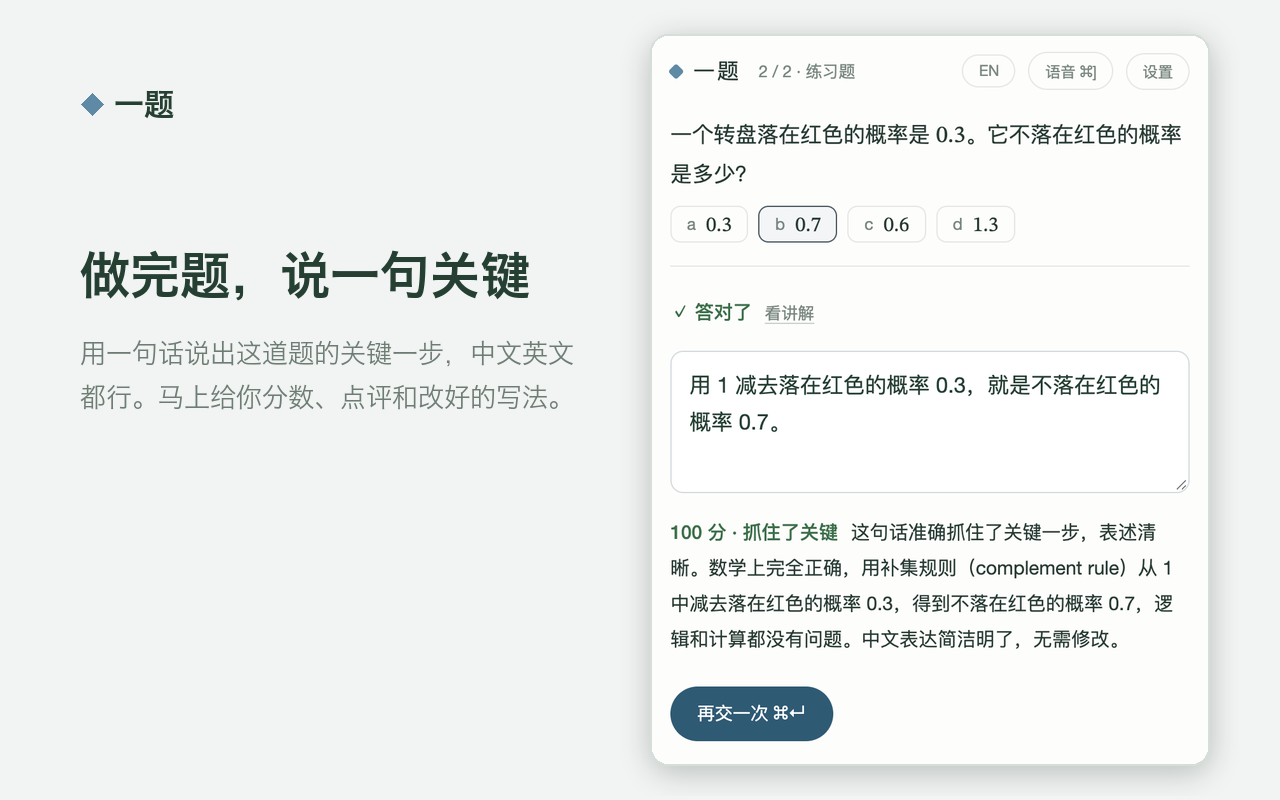
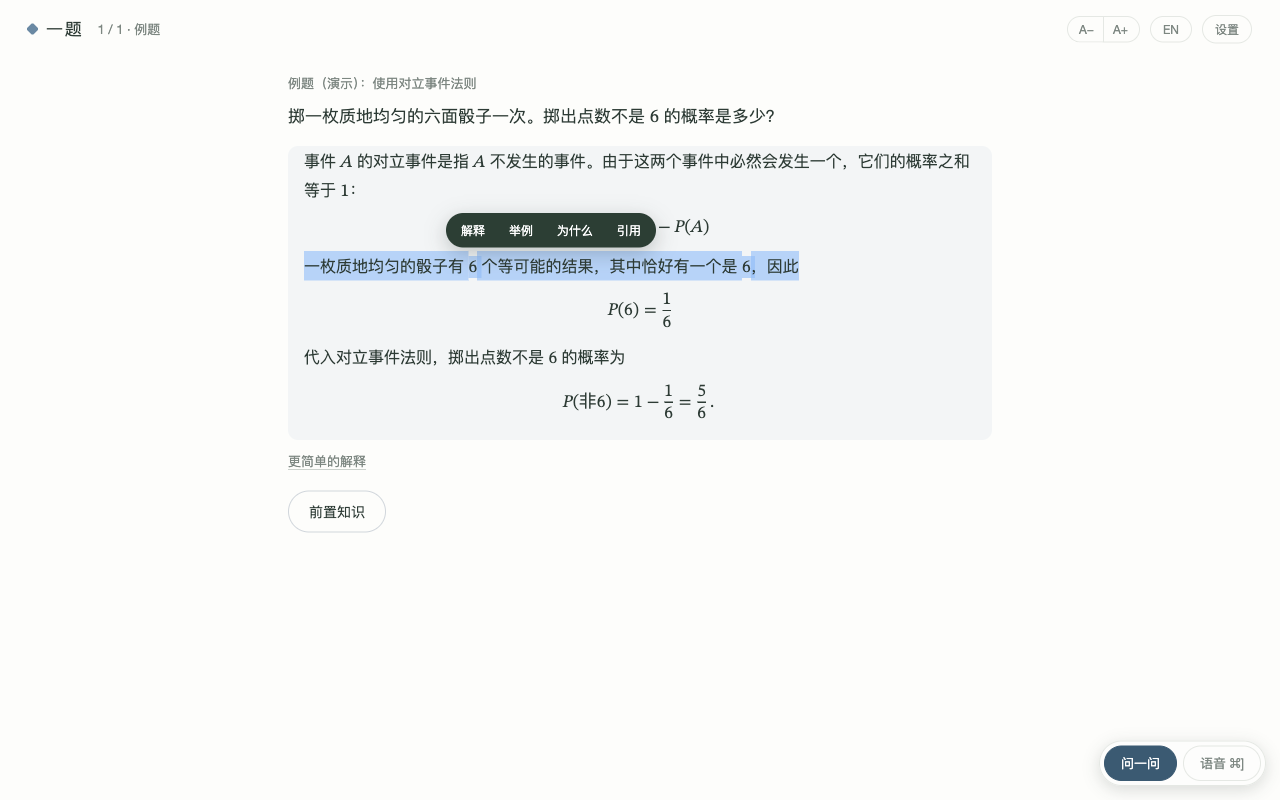
商店资料：0.5.1 提交时用的五张截图、两张宣传图和商店说明
截图用一题自带的示例题和真实模型回复拍的，不含 Math Academy 的内容和任何 key；宣传图去掉了已经删掉的功能；listing.md 是 0.5.1 提交时填的描述和审核说明（key 只有占位符）。

版本 0.6.0。

diff --git a/docs/store/listing.md b/docs/store/listing.md
@@ -4,7 +4,7 @@
 
 ## 1. 上传包（Packages）
 
-上传 `dist/yiti-extension-0.5.1.zip`（在仓库里运行 `node edge/build.mjs` 生成，也可以从 [Releases](https://github.com/John15263/yiti/releases) 下载）。2026-09-26 提交审核的是 0.3.1；审核期间不要上传新包（会重新排队），通过后再用新版本更新。
+上传 `dist/yiti-extension-0.5.1.zip`（在仓库里运行 `node edge/build.mjs` 生成，也可以从 [Releases](https://github.com/John15263/yiti/releases) 下载）。0.3.1 已通过审核（2026-10-02 确认）；0.5.1 是在它基础上的一次大更新（权限和主机权限和 0.3.1 完全一样，没有新增），用「更新」提交，不是新建加载项。
 
 包里的 `edge/_locales/<语言>/messages.json` 决定了商店里**不能再改**的两项，每种语言一份：
 
@@ -34,7 +34,7 @@
 ### Single Purpose Description
 
 ```
-Helps Chinese-speaking students study on Math Academy: in a side panel, it follows the lesson step the student has open, translates it into Chinese, lists the more basic prerequisite knowledge behind the step (each item can be opened up for a fuller explanation), lets the student ask questions about the step at any time, and offers a voice tutor. It never helps solve a practice question before the student has answered it: until then the assistant is not even shown the question.
+Helps Chinese-speaking students study on Math Academy: in a side panel, it follows the lesson step the student has open, translates it into Chinese, lists the more basic prerequisite knowledge behind the step (each item can be opened up for a fuller explanation, and retold more simply), can retell the step's explanation for someone with less background, lets the student ask questions about the step at any time, and offers a voice tutor. It never helps solve a practice question before the student has answered it: until then the assistant is not even shown the question.
 ```
 
 ### Permission justification
@@ -87,9 +87,9 @@ https://github.com/John15263/yiti/blob/main/PRIVACY.md
 | Extension logo（必填） | `logo-300.png` |
 | Small promotional tile | `tile-440x280.png` |
 | Large promotional tile | `tile-1400x560.png` |
-| Screenshots（按顺序） | `screenshot-1.png` 例题拆开讲 · `screenshot-2.png` 遮住自己写 · `screenshot-3.png` 语音问 · `screenshot-4.png` 一句话点评 · `screenshot-5.png` 设置
+| Screenshots（按顺序，都是 1280×800） | `screenshot-1.png` 例题的中文翻译，角落里收起的「问一问」 · `screenshot-2.png` 前置知识，展开一项、再要一个更简单的讲法 · `screenshot-3.png` 问一问展开：左边是前置知识，右边是对话 · `screenshot-4.png` 划线提问 · `screenshot-5.png` 例题的「更简单的解释」 |
 
-**这五张图是改版之前的界面（分块、默写、点评），上传前要重拍**：换成例题的中文全文、「前置知识」展开、「问一问」的对话、设置。 |
+这五张是 0.5.1 的界面，用真实的模型回复拍的（Gemini，一题自带的示例题，不含 Math Academy 的内容，不含任何 key）。
 
 截图里用的是一题自带的示例题（我们自己写的），不含 Math Academy 的内容。
 
@@ -100,9 +100,11 @@ https://github.com/John15263/yiti/blob/main/PRIVACY.md
 
 【它能做什么】
 · 中文翻译：把这一步的题目、选项和讲解翻成中文，公式原样保留；随时切回英文原文对照。
-· 前置知识：讲解、例题、练习题，每一步都能看到它背后更基础的概念、方法和公式；每一项可以「进一步展开」（看不懂再点「更简单的解释」）；讲解、例题和交答案后的官方讲解也可以要一个「更简单的解释」：讲清楚，给一个例子，说常见的误区。
+· 前置知识：讲解、例题、练习题，每一步都能看到它背后更基础的概念、方法和公式；每一项可以「进一步展开」：讲清楚，给一个例子，说常见的误区；还觉得难，再点「更简单的解释」，换成基础更少的人也能懂的讲法，最多三种，可以来回翻。
+· 更简单的解释：讲解、例题，以及交了答案之后的官方讲解，也可以让它重新讲一遍，讲给基础更少的人听；官方原文留在上面，模型写的另放一块。
 · 随时问一问：平时收起、只在角落留一小粒，点开才出现（页面下面，宽屏在右边），一边看前置知识一边问，可以问很多轮，不打分。看到不懂的话，划线点一下就问。交了答案之后，什么都可以问，包括这道题怎么做；答错了想问，点一下「讲讲我错在哪」。
 · 语音陪练：卡住时开口问，陪练用中文讲道理，英文说法原样念给你听；说的话和打的字在同一条对话里。
+· 字号：顶栏的 A− A+（或 ⌘＋ ⌘－）把整个页面的字放大缩小；矩阵、分式等公式按原样画出来。
 
 【它守的一条线】
 练习题交答案之前，一题不帮你解这道题。Math Academy 会根据你自己交的答案安排练习和复习；先被讲会了再交，它就会以为你已经掌握了。所以交答案之前，一题只翻译题目，并帮你补前置知识：这时的「问一问」看不到你在做的题，只能讲基础知识；交了之后再陪你把这道题弄懂。复习页面当作练习题；测验、诊断、测评等考核页面，一题不读取内容。
@@ -125,9 +127,11 @@ Yiti (一题) is a study companion for Math Academy, made for students who think
 
 What it does
 • Chinese translation: the step's question, choices and explanation in Chinese, with every formula kept as it is; switch back to the English original at any time.
-• Prerequisites: for every step — tutorial, worked example or practice question — the more basic concepts, methods and formulas it rests on; each item can be opened up for an explanation, an example of its own and a common pitfall.
-• Ask any time: keep asking about the step, as many turns as you like, nothing is scored. Once you have answered a practice question you can ask anything, including how it is solved.
-• Voice tutor: when stuck, just ask. It explains in Chinese and says the English terms as they are.
+• Prerequisites: for every step — tutorial, worked example or practice question — the more basic concepts, methods and formulas it rests on; each item can be opened up for an explanation, an example of its own and a common pitfall, and, if that is still too hard, told again more simply (up to three times, and you can go back and forth).
+• Simpler explanations: for a tutorial, a worked example, or the official explanation once you have answered a practice question, ask for it to be retold for someone with less background. Math Academy's own text stays as it is; what the model writes goes in a separate box.
+• Ask any time: tucked away in a corner until you open it; keep asking about the step, as many turns as you like, nothing is scored. Select any words on the page and one click sends them as a question. Once you have answered a practice question you can ask anything, including how it is solved.
+• Voice tutor: when stuck, just ask. It explains in Chinese and says the English terms as they are; what you say and what you type are one conversation.
+• Text size: A− A+ in the header (or Cmd +/−) enlarges or shrinks the whole page; matrices, fractions and other formulas are drawn as they are.
 
 The line it keeps
 Before you answer a practice question, Yiti does not help you solve it. Math Academy plans your practice and reviews from the answers you give on your own; being walked through first would make it think you have mastered the topic. So before you answer, Yiti only translates the question and fills in prerequisite knowledge: the assistant you ask at that point is not shown the question at all. Once you have answered, it walks you through it. A review is treated like a practice question; quizzes, diagnostics and assessments are never read.
@@ -150,21 +154,21 @@ Yiti is an unofficial study tool and is not affiliated with Math Academy.
 
 ## 6. 审核备注（Notes for certification）
 
-提交前，专门给审核员建一个 **Google Gemini 的 API key**（https://aistudio.google.com/apikey ），审核通过后删掉。用量上限只能按项目设，所以把它建在单独的项目里，再给这个项目设月上限（比如 $2）。把 key 填到下面的 `PASTE_KEY_HERE` 处（用尖括号 `<KEY>` 时，Partner Center 的输入框吞掉过它后面的换行）。审核员多半在海外，用 Gemini 最方便；他们大概率没有 Math Academy 账号，所以用内置示例测试。
+提交前，专门给审核员建一个 **Google Gemini 的 API key**（https://aistudio.google.com/apikey ），审核通过后删掉。（0.3.1 那一次用的 key，如果还没删，可以接着用到这一次通过；删不删由你定，通过之后记得删，并删掉 Google 项目 `yiti-review`。）**这个 key 只能由你自己粘贴到备注里，不要发到聊天里。** Partner Center 的备注框限 2000 个字符，下面这份是压缩过的（约 1876 个字符，含 key 的位置）。用量上限只能按项目设，所以把它建在单独的项目里，再给这个项目设月上限（比如 $2）。把 key 填到下面的 `PASTE_KEY_HERE` 处（用尖括号 `<KEY>` 时，Partner Center 的输入框吞掉过它后面的换行）。审核员多半在海外，用 Gemini 最方便；他们大概率没有 Math Academy 账号，所以用内置示例测试。
 
 ```
-How to test without a Math Academy account (it is a paid service):
+Version 0.5.1 is a larger update of the approved 0.3.1; permissions are exactly the same.
 
-1. Click the Yiti icon in the toolbar. The side panel opens and shows Settings.
-2. Under 文字 (text) choose "Gemini"; under 语音陪练 (voice) choose "Gemini Live". Paste this test key into "Gemini API key": PASTE_KEY_HERE
-   Click "保存并测试" (save and test); both lines should show "✓ 可用" (available). Close the dialog.
-3. Click "先看一个示例" (try an example). A built-in worked example (written for this extension, not Math Academy content) opens and is translated into Chinese.
-4. Click "前置知识" (prerequisites): after a few seconds a list of basic concepts, methods and formulas appears. Click "进一步展开" (open up) next to an item for a fuller explanation.
-5. In the box in the pane docked at the bottom ("问一问", ask a question) type a question about the example, e.g. "为什么这样算？", and press "发送" (send) or Cmd+Enter (Ctrl+Enter on Windows); the tutor answers in Chinese.
-6. Click "语音 ⌘]" in the 问一问 pane to start the voice tutor; it starts explaining the current step. If the side panel cannot ask for the microphone, the extension opens a small tab to grant it once. Click the red timer to stop.
-7. "EN" in the header switches between Chinese and the English original.
+How to test without a Math Academy account (a paid service):
+1. Click the Yiti toolbar icon: the side panel opens, showing Settings.
+2. Under 文字 (text) choose Gemini; under 语音陪练 (voice) choose Gemini Live. Paste this test key into "Gemini API key": PASTE_KEY_HERE
+   Click "保存并测试" (save and test); both lines show "✓ 可用". Close the dialog.
+3. Click "先看一个示例" (try an example): a built-in example (written for this extension, not Math Academy content) opens, translated into Chinese.
+4. Click "前置知识" (prerequisites): a list of basic concepts, methods and formulas appears. "进一步展开" opens an item up; under it "更简单的解释" (simpler explanation) retells it, and "上一种讲法" goes back. "更简单的解释" under the example's text retells the example.
+5. Click "问一问" (ask) in the bottom-right corner: the ask pane opens. Type a question, e.g. "为什么这样算？", press 发送 (send) or Cmd+Enter; the tutor answers in Chinese. "收起" (or Cmd+/) puts it back in the corner.
+6. Select some words in the example: a bar with 解释 / 举例 / 为什么 / 引用 appears; the first three send the words as a question.
+7. "语音 ⌘]" (voice), in the corner or the pane, starts the voice tutor. If the panel cannot get the microphone, a small tab asks once. The red timer stops it.
+8. "EN" switches between Chinese and the English original; "A−"/"A+" change the text size.
 
-On mathacademy.com, the content script reads only the lesson step currently open and sends it to the side panel; nothing is read on quizzes, diagnostics or assessments. All model calls go directly from the extension to the provider chosen in Settings, with the user's own key; there is no developer server.
-
-DeepSeek and Alibaba Cloud Model Studio (Qwen) are alternative providers for the same features, chosen in the same Settings dialog and run through the same code; the Gemini test key above covers both text and voice, so no other key is needed. The key exists only for this review and will be deleted afterwards.
+On mathacademy.com the content script reads only the lesson step (or review question) that is open and sends it to the side panel; nothing is read on quizzes, diagnostics or assessments. Model calls go directly from the extension to the provider chosen in Settings, with the user's own key; there is no developer server. DeepSeek and Alibaba Qwen are alternatives through the same code; the Gemini key covers every feature. The key exists only for this review and will be deleted.
 ```
